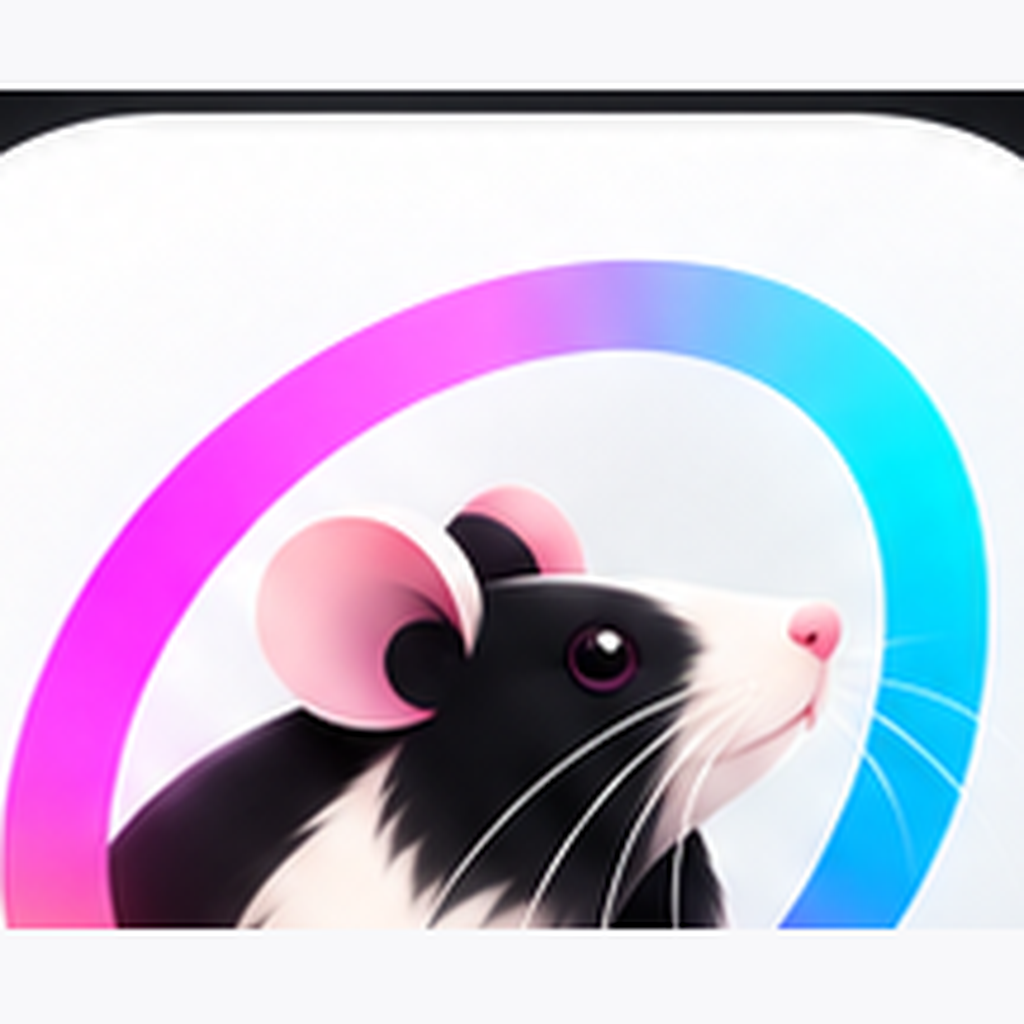
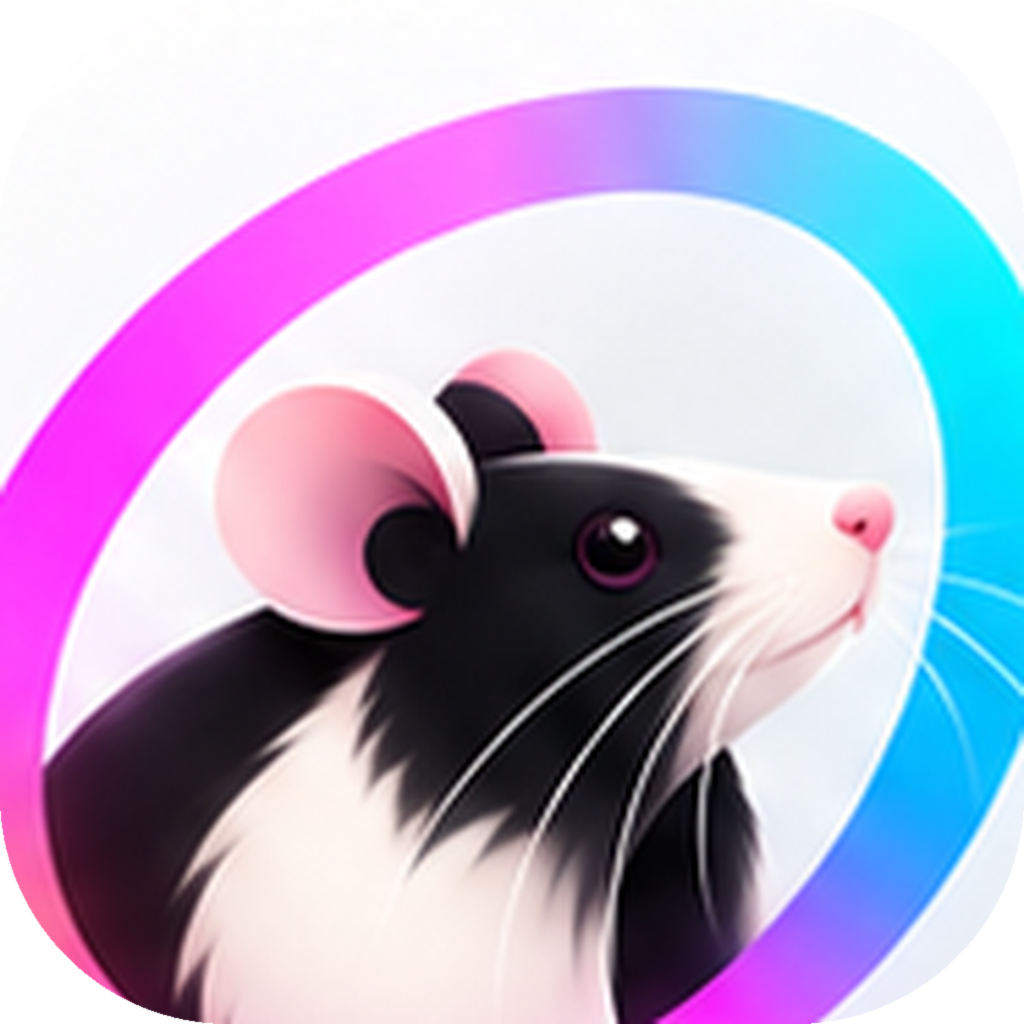
ícone recortado no squircle, grafia sem fundo, Colo vira Odete na UI
O wordmark perde o retângulo preto. Projeto, git, plano e skills
passam a .odete; chaves internas colo-* continuam.

diff --git a/src/lib/agent/execute.ts b/src/lib/agent/execute.ts
@@ -46,7 +46,7 @@ export async function executeTool(
       if (hits > 1) return `trecho aparece ${hits} vezes — seja mais específico`;
       const after = before.replace(old, neu);
       if (mode === "plan") {
-        if (path !== ".colo/plan.md") return "plan só escreve .colo/plan.md — mude pra Build pra editar o resto";
+        if (path !== ".odete/plan.md" && path !== ".colo/plan.md") return "plan só escreve .odete/plan.md — mude pra Build pra editar o resto";
         w.writeFile(path, after);
         return `escrito ${path}`;
       }
@@ -61,7 +61,7 @@ export async function executeTool(
       const content = str("content");
       if (!path) return "caminho inválido";
       if (mode === "plan") {
-        if (path !== ".colo/plan.md") return "plan só escreve .colo/plan.md — mude pra Build pra editar o resto";
+        if (path !== ".odete/plan.md" && path !== ".colo/plan.md") return "plan só escreve .odete/plan.md — mude pra Build pra editar o resto";
         w.writeFile(path, content);
         return `escrito ${path}`;
       }
@@ -95,13 +95,13 @@ export async function executeTool(
         return "chat só lê o terminal. use Plan (escrever plano) ou Build (executar).";
       }
       if (mode === "plan" && !isReadShell(command) && !/^(mkdir|touch)\b/.test(command.trim())) {
-        return "plan não roda npm/git que muda remoto. mkdir/touch em .colo/ e leitura ok. Build pra o resto.";
+        return "plan não roda npm/git que muda remoto. mkdir/touch em .odete/ e leitura ok. Build pra o resto.";
       }
       if (mode === "plan" && /^(mkdir|touch)\b/.test(command.trim())) {
         const dest = command.trim().split(/\s+/)[1] ?? "";
         const clean = dest.replace(/^\/+/, "");
-        if (clean && !clean.startsWith(".colo/") && clean !== ".colo") {
-          return "plan só cria coisas em .colo/";
+        if (clean && !clean.startsWith(".odete/") && clean !== ".odete" && !clean.startsWith(".colo/") && clean !== ".colo") {
+          return "plan só cria coisas em .odete/";
         }
       }
       return clip(await runShellAsync(command, slot));

diff --git a/src/lib/agent/tools.ts b/src/lib/agent/tools.ts
@@ -37,7 +37,7 @@ export const AGENT_TOOLS = [
     function: {
       name: "write_file",
       description:
-        "Cria arquivo ou reescreve INTEIRO. No modo plan, grave o plano em .colo/plan.md.",
+        "Cria arquivo ou reescreve INTEIRO. No modo plan, grave o plano em .odete/plan.md.",
       parameters: {
         type: "object",
         properties: {
@@ -90,7 +90,7 @@ export const AGENT_TOOLS = [
     function: {
       name: "run_shell",
       description:
-        "Terminal do workspace. ls, cat, mkdir, git, npm i / pnpm i, npm run dev/start/build, node arquivo.js. Quando o app está isolado (tela cheia) o Node é de verdade — Vite, Next, Nest, Astro, Remix sobem no Preview. Sem isolamento, cai no Preview JSX/TS da Odete. Chat só lê. Plan: mkdir/touch só em .colo/.",
+        "Terminal do workspace. ls, cat, mkdir, git, npm i / pnpm i, npm run dev/start/build, node arquivo.js. Quando o app está isolado (tela cheia) o Node é de verdade — Vite, Next, Nest, Astro, Remix sobem no Preview. Sem isolamento, cai no Preview JSX/TS da Odete. Chat só lê. Plan: mkdir/touch só em .odete/.",
       parameters: {
         type: "object",
         properties: { command: { type: "string" } },
@@ -128,12 +128,12 @@ Pode LER o terminal (read_terminal ou run_shell com ls/cat/git status).
 Não edite arquivos. Não rode npm i, git push, rm, mkdir.`;
   }
   if (mode === "plan") {
-    return `Modo PLAN: investigue e GRAVE o plano em \`.colo/plan.md\` (crie a pasta se precisar).
+    return `Modo PLAN: investigue e GRAVE o plano em \`.odete/plan.md\` (crie a pasta se precisar).
 ${read}
-Só escreve \`.colo/plan.md\`. mkdir/touch só dentro de \`.colo/\`.
+Só escreve \`.odete/plan.md\`. mkdir/touch só dentro de \`.odete/\`.
 Não rode git push / npm i / rm em massa. Shell de leitura ok.
 
-O arquivo \`.colo/plan.md\` deve ter:
+O arquivo \`.odete/plan.md\` deve ter:
 
 ## Objetivo
 uma linha

diff --git a/src/lib/workspace/seed.ts b/src/lib/workspace/seed.ts
@@ -22,7 +22,7 @@ que edita este workspace — no próprio iPad.
 3. Abra Preview (ou Split)
 4. \`git commit\` no terminal ou pelo agente
 `,
-  ".colo/skills/commit.md": `---
+  ".odete/skills/commit.md": `---
 name: Commit
 description: Mensagens curtas no padrão convencional, em PT-BR.
 when: commit, git, mensagem, changelog
@@ -32,7 +32,7 @@ Mensagens: tipo(escopo): o que mudou
 Tipos: feat, fix, chore, docs, refactor, style, test.
 Uma linha, sem ponto final, verbo no infinitivo. Ex: feat(editor): destacar seleção pelo tema.
 `,
-  ".colo/skills/swiftui.md": `---
+  ".odete/skills/swiftui.md": `---
 name: SwiftUI
 description: Estilo SwiftUI simples para o playground do iPad.
 when: swift, swiftui, view, vstack, playground
@@ -41,7 +41,7 @@ when: swift, swiftui, view, vstack, playground
 Swift neste workspace é um subset: VStack, HStack, Text, Button, padding.
 Prefira views pequenas, nomes claros, sem Combine/async. Preview usa o interpretador da Odete.
 `,
-  ".colo/skills/review.md": `---
+  ".odete/skills/review.md": `---
 name: Review
 description: Revisão curta: risco, bug, o que está ok.
 when: review, revisa, revisão, olha esse
@@ -50,7 +50,7 @@ when: review, revisa, revisão, olha esse
 Revise em 3 blocos: (1) o que está ok, (2) bugs/risco, (3) patch sugerido.
 Não reescreva arquivo inteiro se um hunk resolve. Cite path:linha.
 `,
-  ".colo/skills/html.md": `---
+  ".odete/skills/html.md": `---
 name: HTML
 description: index.html e CSS do preview, sem framework.
 when: html, css, preview, página, index

diff --git a/src/components/ide/git-pane.tsx b/src/components/ide/git-pane.tsx
@@ -124,8 +124,8 @@ export function GitPane() {
     try {
       if (kind === "fetch") setNote(await remoteFetch());
       else if (kind === "pull") setNote(await remotePull());
-      else if (kind === "push") setNote(await remotePush(msg.trim() || "colo push", setNote));
-      else setNote(await remoteSync(msg.trim() || "colo sync"));
+      else if (kind === "push") setNote(await remotePush(msg.trim() || "odete push", setNote));
+      else setNote(await remoteSync(msg.trim() || "odete sync"));
     } catch (e) {
       setNote(e instanceof Error ? e.message : "git falhou");
     } finally {
@@ -396,7 +396,7 @@ export function GitPane() {
                   disabled={busy}
                   onClick={() => {
                     setBusy(true);
-                    void remotePush(msg.trim() || "colo push", setNote)
+                    void remotePush(msg.trim() || "odete push", setNote)
                       .then((sha) => setNote(sha))
                       .catch((e) => setNote(e instanceof Error ? e.message : "push falhou"))
                       .finally(() => setBusy(false));

diff --git a/src/lib/workspace/store.ts b/src/lib/workspace/store.ts
@@ -145,7 +145,7 @@ export type WorkspaceState = {
 };
 
 const bootLines: TermLine[] = [
-  { id: "boot", kind: "ok", text: "colo  workspace local" },
+  { id: "boot", kind: "ok", text: "odete  workspace local" },
   { id: "boot2", kind: "out", text: "digite help · npm i · git status" },
 ];
 
@@ -174,7 +174,7 @@ function freshState() {
     branch: "main",
     cwd: "",
     projectId: "seed",
-    projectName: "colo",
+    projectName: "odete",
     remote: null as string | null,
     branchSnaps: {} as Record<string, BranchSnap>,
     stash: [] as StashEntry[],
@@ -976,7 +976,7 @@ export const useWorkspace = create<WorkspaceState>()(
         if (!state.stash) state.stash = [];
         if (!state.conflicts) state.conflicts = [];
         if (!state.projectId) state.projectId = "seed";
-        if (!state.projectName) state.projectName = "colo";
+        if (!state.projectName || state.projectName === "colo") state.projectName = "odete";
         if (state.remote === undefined) state.remote = null;
         state.hydrated = true;
       },

diff --git a/src/lib/workspace/git-remote.ts b/src/lib/workspace/git-remote.ts
@@ -8,7 +8,7 @@ export function gitRemoteReady() {
   return { remote, token, ok: Boolean(remote && token) };
 }
 
-export async function remotePush(message = "colo push", onNote?: (s: string) => void) {
+export async function remotePush(message = "odete push", onNote?: (s: string) => void) {
   const { remote, token, ok } = gitRemoteReady();
   const w = useWorkspace.getState();
   if (!ok || !remote || !token) return `${w.gitPush()}\n(sem GitHub — só local)`;
@@ -44,7 +44,7 @@ export async function remoteFetch() {
   return useWorkspace.getState().gitApplyFetch(r.files);
 }
 
-export async function remoteSync(message = "colo sync") {
+export async function remoteSync(message = "odete sync") {
   const pull = await remotePull();
   if (pull.startsWith("error")) return pull;
   const push = await remotePush(message);

diff --git a/src/lib/workspace/chrome.ts b/src/lib/workspace/chrome.ts
@@ -266,7 +266,7 @@ export const useChrome = create<ChromeState>()(
       favModels: { grok: "grok-4-1-fast-reasoning", claude: "", codex: "" },
       claudeAuth: null,
       openaiAuth: null,
-      theme: "colo",
+      theme: "odete",
       synCustom: {},
       iconPack: "catppuccin",
       pluginLinter: true,
@@ -473,6 +473,7 @@ export const useChrome = create<ChromeState>()(
         if (persisted && Object.keys(p).length) markEntered();
         p.welcome = !hasEnteredWorkspace();
         if (p.theme === "verdent") p.theme = "volt";
+        if (p.theme === "colo") p.theme = "odete";
         if (p.pluginMinimap === true && !p.minimap) p.minimap = "m";
         if (p.pluginMinimap === false && !p.minimap) p.minimap = "off";
         delete p.pluginMinimap;

diff --git a/src/styles.css b/src/styles.css
@@ -18,6 +18,7 @@
   --color-ok: #7dce9a;
 }
 
+html[data-theme="odete"],
 html[data-theme="colo"] {
   --color-bg: #08080a;
   --color-bg-elevated: #101014;
@@ -1562,16 +1563,17 @@ input, textarea, select { font: inherit; font-size: 16px; }
   width: min(420px, 100%);
 }
 .welcome-icon {
-  width: 148px;
-  height: 148px;
-  object-fit: cover;
-  border-radius: 34px;
-  margin: 0 0 28px;
+  width: 156px;
+  height: 156px;
+  object-fit: contain;
+  background: transparent;
+  margin: 0 0 24px;
 }
 .welcome-word {
-  width: min(280px, 78vw);
+  width: min(300px, 82vw);
   height: auto;
-  margin: 0 0 14px;
+  background: transparent;
+  margin: 0 0 16px;
 }
 .welcome-kicker {
   margin: 0 0 14px;

diff --git a/src/components/ide/welcome.tsx b/src/components/ide/welcome.tsx
@@ -6,7 +6,7 @@ export function Welcome() {
       <div className="welcome-glow" aria-hidden />
       <div className="welcome-inner">
         <img className="welcome-icon" src="/brand/odete-icon.png" width={168} height={168} alt="" />
-        <img className="welcome-word" src="/brand/odete-wordmark.png" width={280} height={78} alt="Odete" />
+        <img className="welcome-word" src="/brand/odete-wordmark.png" alt="Odete" />
         <p className="welcome-kicker">IDE para iPad e iPhone</p>
         <p className="welcome-line">Ideias se sentem mais em casa aqui.</p>
         <button type="button" className="welcome-go" onClick={enterWorkspace}>

diff --git a/src/lib/workspace/shell.ts b/src/lib/workspace/shell.ts
@@ -217,7 +217,7 @@ async function runShellInner(raw: string): Promise<string> {
             err = true;
             out = r;
           }
-        } else if (sub === "push") out = await remotePush(args.includes("-m") ? args[args.indexOf("-m") + 1] : "colo push", (m) => w.termPrint("out", m));
+        } else if (sub === "push") out = await remotePush(args.includes("-m") ? args[args.indexOf("-m") + 1] : "odete push", (m) => w.termPrint("out", m));
         else if (sub === "pull") out = await remotePull();
         else if (sub === "fetch") out = await remoteFetch();
         else if (sub === "sync") out = await remoteSync();

diff --git a/src/lib/workspace/skill-catalog.ts b/src/lib/workspace/skill-catalog.ts
@@ -136,13 +136,13 @@ export function catalogById(id: string) {
 }
 
 export function skillPath(id: string) {
-  return `.colo/skills/${id.replace(/[^a-z0-9-]/gi, "-").toLowerCase()}.md`;
+  return `.odete/skills/${id.replace(/[^a-z0-9-]/gi, "-").toLowerCase()}.md`;
 }
 
 export function installedIds(files: Record<string, string>) {
   const ids = new Set<string>();
   for (const path of Object.keys(files)) {
-    const m = path.match(/(?:^|\/)\.colo\/skills\/([^/]+)\.md$/i);
+    const m = path.match(/(?:^|\/)\.(?:odete|colo)\/skills\/([^/]+)\.md$/i);
     if (m) ids.add(m[1]!.toLowerCase());
   }
   return ids;

diff --git a/src/lib/workspace/themes.ts b/src/lib/workspace/themes.ts
@@ -1,4 +1,5 @@
 export type ThemeId =
+  | "odete"
   | "colo"
   | "catppuccin"
   | "latte"
@@ -20,7 +21,7 @@ export type ThemeDef = {
 
 export const THEMES: ThemeDef[] = [
   {
-    id: "colo",
+    id: "odete",
     label: "Odete",
     blurb: "Noite da marca.",
     dark: true,
@@ -92,7 +93,8 @@ export const THEMES: ThemeDef[] = [
 ];
 
 export function themeById(id: string) {
-  return THEMES.find((t) => t.id === id) ?? THEMES[0]!;
+  const key = id === "colo" ? "odete" : id;
+  return THEMES.find((t) => t.id === key) ?? THEMES[0]!;
 }
 
 export const SYN_FIELDS = [
